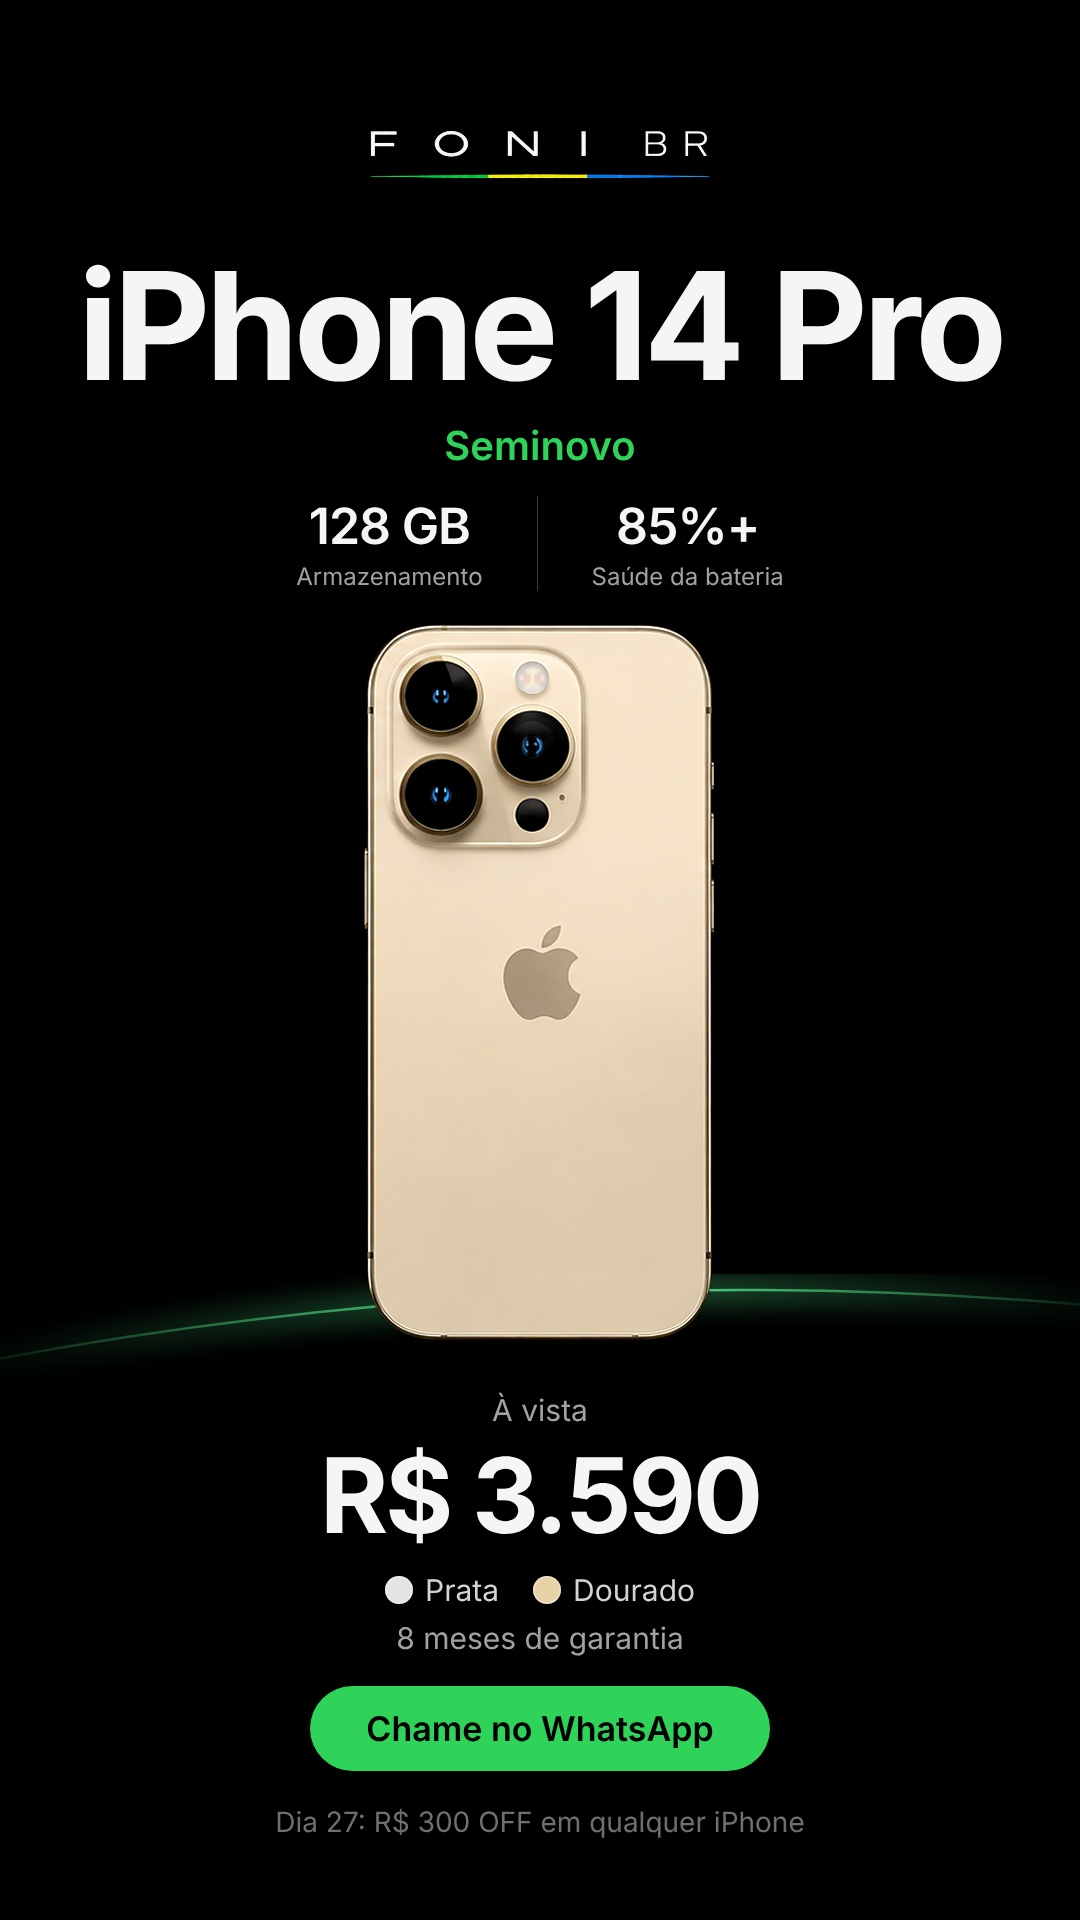
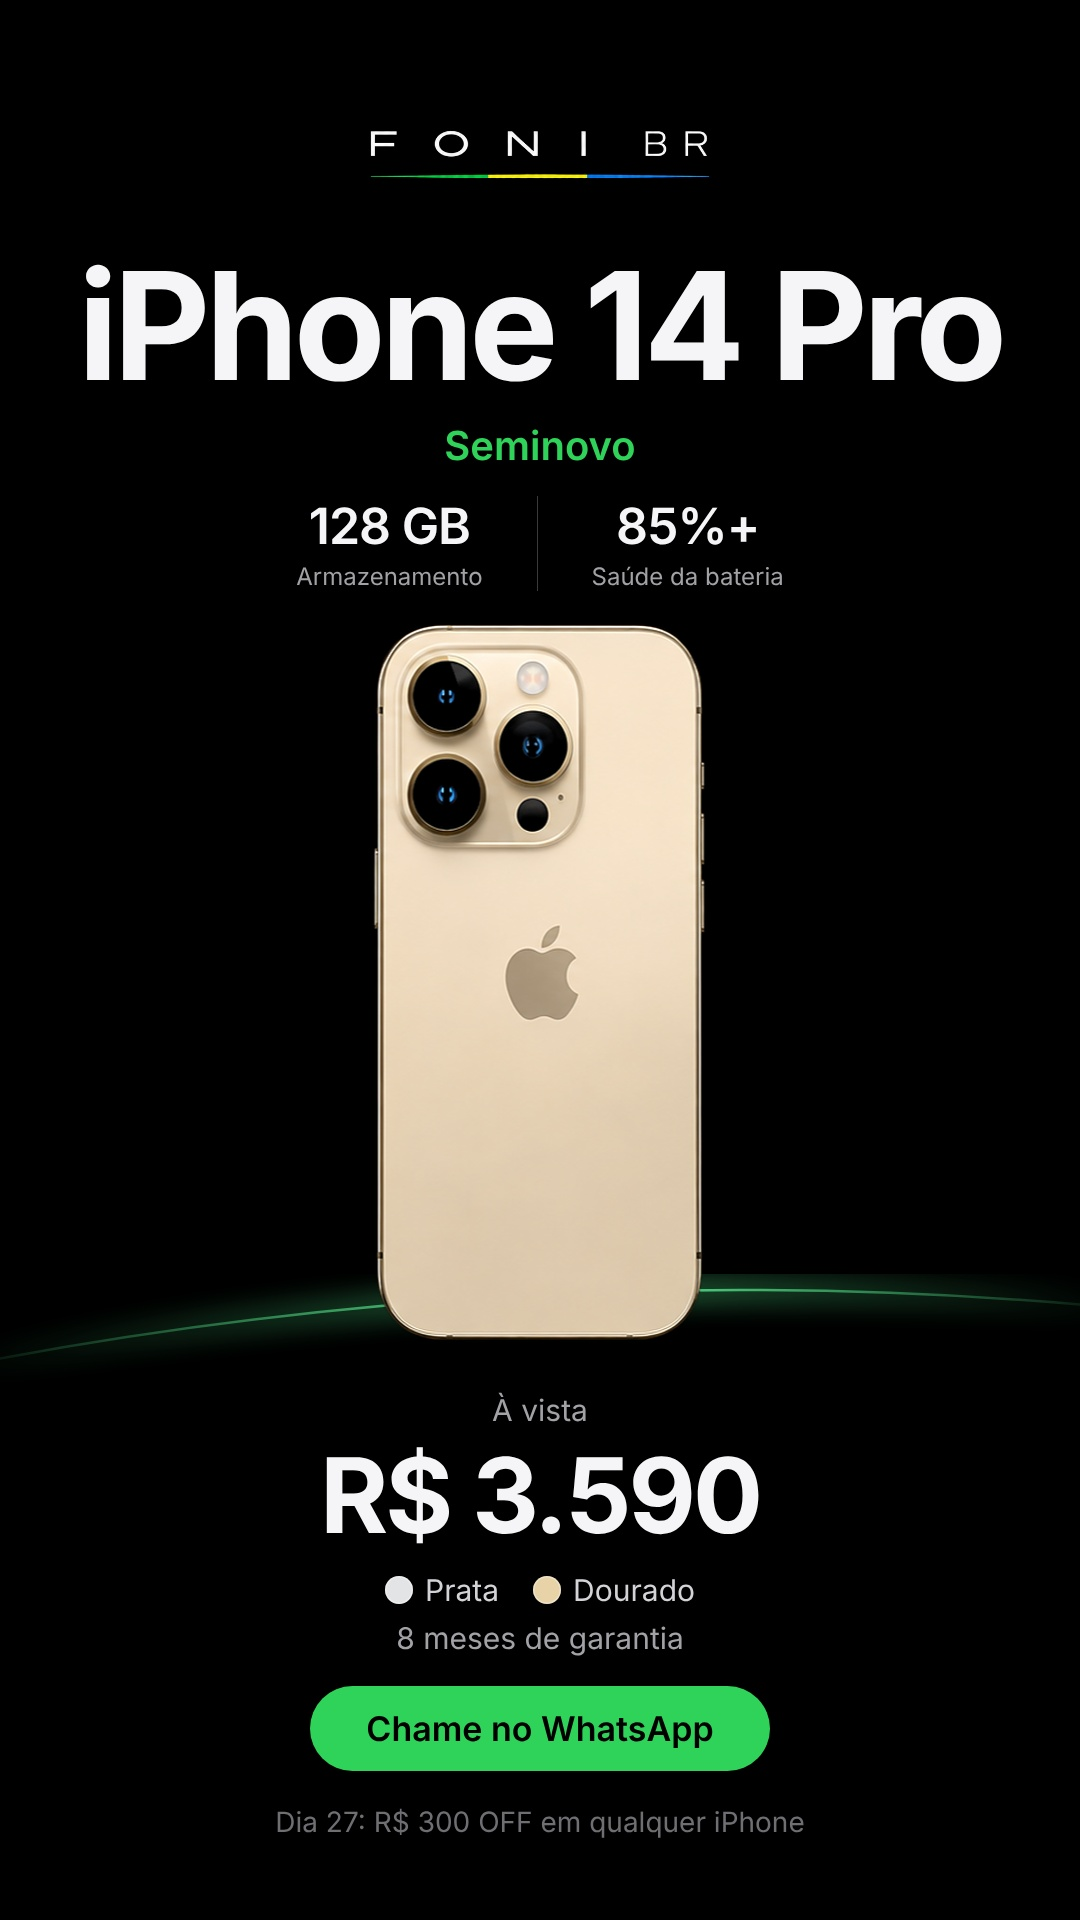
Pro/Pro Max só de costas: proporção corrigida (esticar 1.06) e Pro Max com mais respiro embaixo
Claude-Session: https://claude.ai/code/session_019vjRdqEKRKmJkiD9USJGwJ

diff --git a/ferramentas/anuncio_produto/fichas.py b/ferramentas/anuncio_produto/fichas.py
@@ -23,24 +23,24 @@ FICHAS = {
     "iphone14": dict(modelo="iPhone 14", memoria="128 GB", bateria="100%", preco=2850,
                      cores="Preto, Branco, Lilás ou Azul", promo=PROMO, foto="iphone-14/iphone14_preto.png"),
     "iphone14pro": dict(modelo="iPhone 14 Pro", memoria="128 GB", bateria="85%+", preco=3590,
-                        cores="Prata ou Dourado:#e8d3a8", promo=PROMO, tamanho="pro_solo", limiar=34, foto="iphone-14-pro/iphone14pro_dourado.png"),
+                        cores="Prata ou Dourado:#e8d3a8", promo=PROMO, tamanho="pro_solo", limiar=34, esticar=1.06, foto="iphone-14-pro/iphone14pro_dourado.png"),
     "iphone14promax": dict(modelo="iPhone 14 Pro Max", memoria="256 GB", bateria="90%", preco=4120,
-                           cores="Preto:#3a3a3c ou Roxo:#5d4b70", promo=PROMO, tamanho="promax_solo", limiar=34, foto="iphone-14-pro/iphone14pro_roxo.png"),
+                           cores="Preto:#3a3a3c ou Roxo:#5d4b70", promo=PROMO, tamanho="promax_solo", limiar=34, esticar=1.06, foto="iphone-14-pro/iphone14pro_roxo.png"),
     "iphone15": dict(modelo="iPhone 15", memoria="128 GB", bateria="85%+", preco=3450,
                      cores="Preto ou Azul", promo=PROMO, foto="iphone-15/iphone15_preto.png"),
     "iphone15pro": dict(modelo="iPhone 15 Pro", memoria="128 GB", bateria="90%", preco=4170,
-                        cores="Titânio natural:#bab4a9", promo=PROMO, tamanho="pro_solo", limiar=34, foto="iphone-15-pro/iphone15pro_natural.png"),
+                        cores="Titânio natural:#bab4a9", promo=PROMO, tamanho="pro_solo", limiar=34, esticar=1.06, foto="iphone-15-pro/iphone15pro_natural.png"),
     "iphone15promax": dict(modelo="iPhone 15 Pro Max", memoria="256 GB", bateria="90%+", preco=4700,
-                           cores="Titânio natural:#bab4a9", promo=PROMO, tamanho="promax_solo", limiar=34, foto="iphone-15-pro/iphone15pro_natural.png"),
+                           cores="Titânio natural:#bab4a9", promo=PROMO, tamanho="promax_solo", limiar=34, esticar=1.06, foto="iphone-15-pro/iphone15pro_natural.png"),
     "iphone16": dict(modelo="iPhone 16", memoria="128 GB", bateria="87%+", preco=4300,
                      cores="Preto, Rosa ou Branco", promo=PROMO, foto="iphone-16/iphone16_preto.png"),
     # ---------------- iPhones novos (lacrados)
     # 16 Pro / 16 Pro Max: só lacrado (regra 25/11); preço do lacrado ainda não informado
     "iphone16pro": dict(modelo="iPhone 16 Pro", cond="Novo", memoria="128 GB", bateria="Lacrado", rotulo2="Condição",
-                        preco=PENDENTE, cores="Preto:#3a3a3c, Branco:#e8e6e1, Natural:#bab4a9 ou Deserto:#c9b49b", garantia="", promo=PROMO, tamanho="pro_solo", limiar=34,
+                        preco=PENDENTE, cores="Preto:#3a3a3c, Branco:#e8e6e1, Natural:#bab4a9 ou Deserto:#c9b49b", garantia="", promo=PROMO, tamanho="pro_solo", limiar=34, esticar=1.06,
                         foto="iphone-16-pro/iphone16pro_deserto.png"),
     "iphone16promax": dict(modelo="iPhone 16 Pro Max", cond="Novo", memoria="256 GB", bateria="Lacrado", rotulo2="Condição",
-                           preco=PENDENTE, cores="Preto:#3a3a3c, Branco:#e8e6e1, Natural:#bab4a9 ou Deserto:#c9b49b", garantia="", promo=PROMO, tamanho="promax_solo", limiar=34,
+                           preco=PENDENTE, cores="Preto:#3a3a3c, Branco:#e8e6e1, Natural:#bab4a9 ou Deserto:#c9b49b", garantia="", promo=PROMO, tamanho="promax_solo", limiar=34, esticar=1.06,
                            foto="iphone-16-pro/iphone16pro_natural.png"),
     "iphone17": dict(modelo="iPhone 17", cond="Novo", memoria="256 GB", bateria="Lacrado", rotulo2="Condição",
                      de="À vista, a partir de", preco=6380, cores="Preto, Branco, Azul, Verde ou Lavanda", garantia="",

diff --git a/ferramentas/anuncio_produto/gerar.py b/ferramentas/anuncio_produto/gerar.py
@@ -71,7 +71,7 @@ def chips(cores):
 
 TAMANHOS = {  # (altura da foto, topo da foto, topo do bloco de preço, topo do título, topo da promo). Pro Max maior que o Pro, para mostrar a tela maior
     "normal": (620, 660, 1345, 235, 1760), "pequeno": (580, 690, 1345, 235, 1760), "pro": (700, 625, 1365, 235, 1760), "promax": (840, 562, 1440, 200, 1805),
-    "pro_solo": (725, 618, 1392, 235, 1805), "promax_solo": (835, 582, 1470, 200, 1862),  # só traseira: um pouco maior
+    "pro_solo": (725, 618, 1392, 235, 1805), "promax_solo": (810, 585, 1445, 200, 1835),  # só traseira: um pouco maior
     "mac": (600, 680, 1345, 235, 1760), "mac_grande": (720, 615, 1380, 235, 1790),
     "largo": (500, 730, 1345, 235, 1760)}  # foto bem horizontal (ex.: trio de Apple Watch)  # notebook: foto deitada, limitada pela largura
 
